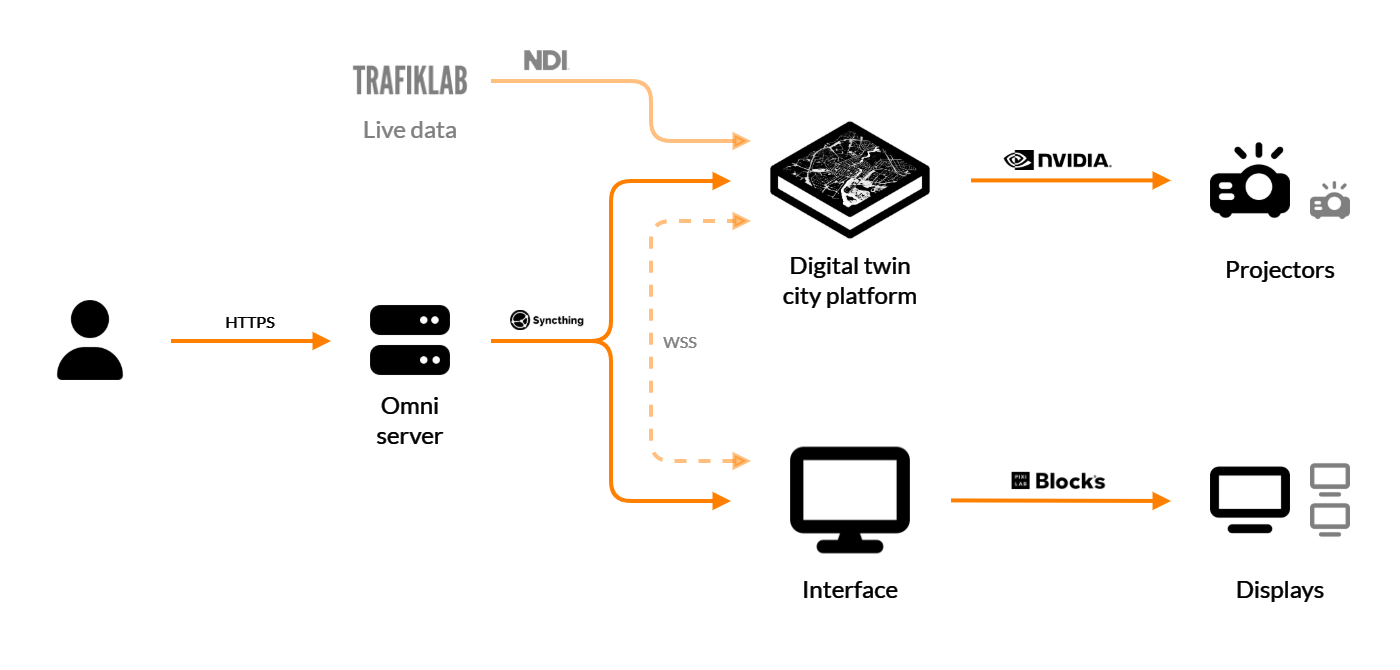
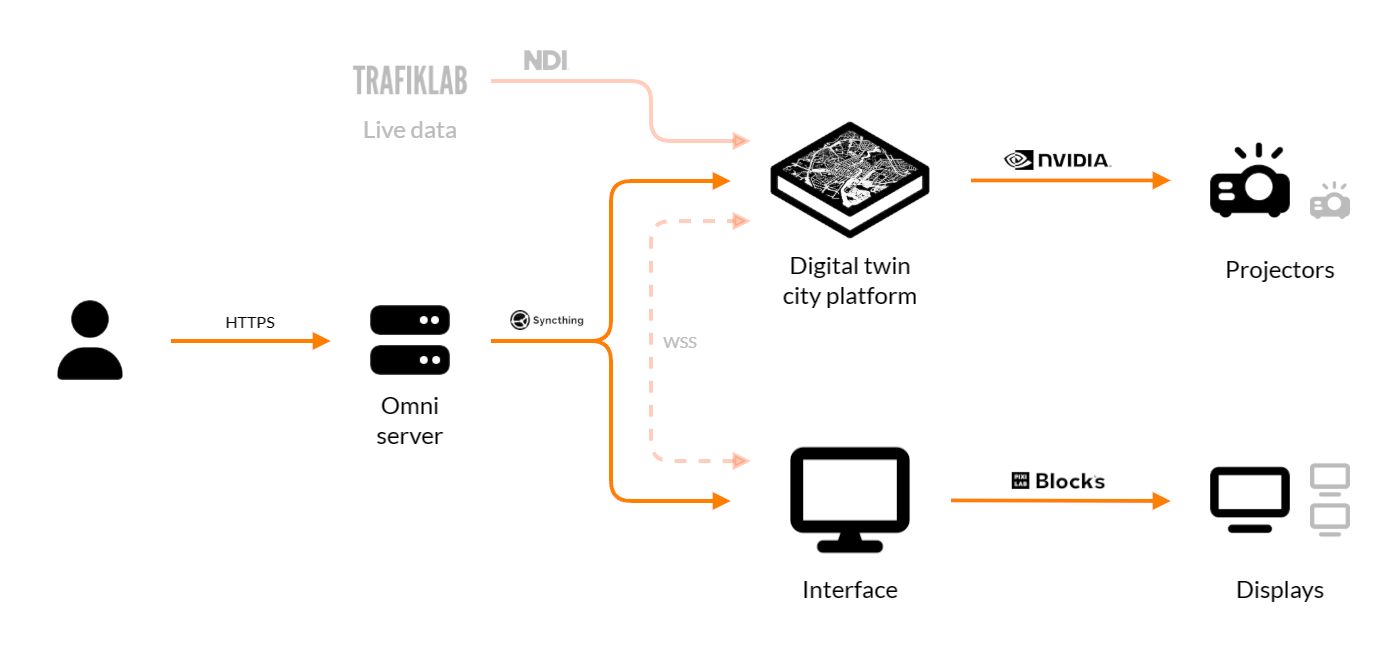
Add custom mdx component <Image>, which allows for relative image paths and improved responsive styling.

diff --git a/src/components/mdxComponents.tsx b/src/components/mdxComponents.tsx
@@ -1,0 +1,46 @@
+import { useRouter } from "next/router";
+import React from "react";
+
+interface ImageProps {
+	src: string;
+	alt?: string;
+	width?: string | number;
+	float?: "left" | "right";
+	className?: string;
+}
+
+const Image = ({ src, alt, width, float }: ImageProps) => {
+	const router = useRouter();
+
+	const currentPath = router.asPath.split(/[?#]/)[0];
+
+	const isRelative = !src.startsWith("http") && !src.startsWith("/");
+	const cleanFilename = src.startsWith("./") ? src.replace("./", "") : src;
+
+	const finalSrc = isRelative
+		? `/content${currentPath}/${cleanFilename}`.replace(/\/+$/, "")
+		: src;
+
+	const floatClasses = {
+		left: "clear-left float-left mr-4 mb-4",
+		right: "clear-right float-right ml-4 mb-4",
+	};
+
+	// Uses width as long as device is wider than 640px
+	const responsiveWidth = width ? `sm:w-[${width}]` : "sm:w-auto";
+
+	return (
+		<img
+			src={finalSrc}
+			alt={alt || ""}
+			title={alt || ""}
+			className={`rounded ${responsiveWidth} ${float ? floatClasses[float] : "block mx-auto mb-4"}`}
+		/>
+	);
+};
+
+/* Export components */
+
+export const mdxComponents = {
+	Image: (props: any) => <Image {...props} />,
+};

diff --git a/src/pages/exjobbs/[slug].tsx b/src/pages/exjobbs/[slug].tsx
@@ -3,6 +3,7 @@ import { MDXRemote } from "next-mdx-remote";
 import { ExjobbData, getAllExjobbs, getExjobb } from '@/helpers/ExjobbHelper';
 import { PersonnelData, getAllPersonnels } from "@/helpers/PersonnelHelper";
 import MiniPersonnelList from "@/components/MiniPersonnelList";
+import { mdxComponents } from "@/components/mdxComponents";
 import { FontAwesomeIcon } from "@fortawesome/react-fontawesome";
 import * as solidIcons from "@fortawesome/free-solid-svg-icons";
 
@@ -55,7 +56,7 @@ export default function Exjobb({ exjobb, personnel }: { exjobb: ExjobbData, pers
 
         {/* Markdown content */}
         <div className="exjobb-single-markdown mdx-content">
-          <MDXRemote {...content} />
+          <MDXRemote {...content} components={mdxComponents} />
         </div>
       </main>
     </>

diff --git a/src/pages/guides/[...slug].tsx b/src/pages/guides/[...slug].tsx
@@ -7,6 +7,7 @@ import { FundingData, getAllFundings } from "@/helpers/FundingHelper";
 import { PersonnelData, getAllPersonnels } from "@/helpers/PersonnelHelper";
 import MiniPersonnelList from "@/components/MiniPersonnelList";
 import MiniFundingList from "@/components/MiniFundingList";
+import { mdxComponents } from "@/components/mdxComponents";
 import {
   TableOfContents,
   getTableOfContent,
@@ -101,7 +102,7 @@ export default function Guide({
 
         {/* Markdown content */}
         <div className="guide-single-markdown mdx-content">
-          <MDXRemote {...content} />
+          <MDXRemote {...content} components={mdxComponents} />
         </div>
       </main>
     </>

diff --git a/src/pages/personnel/[slug].tsx b/src/pages/personnel/[slug].tsx
@@ -4,6 +4,7 @@ import { MDXRemote } from "next-mdx-remote";
 import { PersonnelData, getAllPersonnels, getPersonnel } from "@/helpers/PersonnelHelper";
 import { PublicationData, getAllPublications } from "@/helpers/PublicationHelper";
 import SocialList from "@/components/SocialList";
+import { mdxComponents } from "@/components/mdxComponents";
 import { ProjectData, getAllProjects } from "@/helpers/ProjectHelper";
 import { ProjectList } from "../projects";
 import { PublicationList } from "../publications";
@@ -105,7 +106,7 @@ export default function Personnel({ personnel, projects, publications }: { perso
 
         {/* Markdown content */}
         <div className="personnel-single-markdown mdx-content">
-          <MDXRemote {...content} />
+          <MDXRemote {...content} components={mdxComponents} />
 
           {/* Projects */}
           {myProjects.length > 0 &&

diff --git a/src/pages/projects/[slug].tsx b/src/pages/projects/[slug].tsx
@@ -8,6 +8,7 @@ import { PublicationData, getAllPublications } from "@/helpers/PublicationHelper
 import { PublicationList } from "../publications";
 import MiniPersonnelList from "@/components/MiniPersonnelList";
 import MiniFundingList from "@/components/MiniFundingList";
+import { mdxComponents } from "@/components/mdxComponents";
 import { FontAwesomeIcon } from "@fortawesome/react-fontawesome";
 import * as solidIcons from "@fortawesome/free-solid-svg-icons";
 
@@ -66,7 +67,7 @@ export default function Project({ project, fundings, personnel, publications }: 
 
         {/* Markdown content */}
         <div className="project-single-markdown mdx-content">
-          <MDXRemote {...content} />
+          <MDXRemote {...content} components={mdxComponents} />
 
           {/* Publications */}
           {myPublications.length > 0 &&

diff --git a/public/content/personnel/README.md b/public/content/personnel/README.md
@@ -57,7 +57,7 @@ social: {
 skills: [ "Designing", "Programming", "Adminstrating" ]
 ---
 
-<img alt="Random picture" src="https://picsum.photos/id/543/2000/300" />
+<img alt="Random picture at full width" src="https://picsum.photos/id/543/2000/300" />
 
 # Myself
 Lorem ipsum dolor sit amet, consectetur adipiscing elit. Duis nulla ante, faucibus ac mollis a, maximus sed ipsum. Aenean sodales nunc a tortor dapibus, sit amet congue orci condimentum. Nullam tempor velit nibh, dignissim interdum sapien volutpat non. Cras aliquam, ipsum varius euismod lobortis, orci sem fermentum neque, et ornare magna nunc sed elit. Duis felis urna, sodales feugiat justo nec, ornare molestie enim. Vestibulum eleifend, mi a vehicula malesuada, ligula erat dictum nibh, ut sollicitudin ex mi sed leo. Sed dictum cursus lectus, ut sollicitudin mi auctor ut.
@@ -67,11 +67,11 @@ Suspendisse sit amet dui ut ligula ultrices mollis sit amet a dolor. Aenean aliq
 # Background
 Lorem ipsum - tai fiktyvus tekstas naudojamas spaudos ir grafinio dizaino pasaulyje jau nuo XVI a. pradžios. Lorem Ipsum tapo standartiniu fiktyviu tekstu, kai nežinomas spaustuvininkas atsitiktine tvarka išdėliojo raides atspaudų prese ir tokiu būdu sukūrė raidžių egzempliorių. Šis tekstas išliko beveik nepasikeitęs ne tik penkis amžius, bet ir įžengė i kopiuterinio grafinio dizaino laikus. Jis išpopuliarėjo XX a. šeštajame dešimtmetyje, kai buvo išleisti Letraset lapai su Lorem Ipsum ištraukomis, o vėliau -leidybinė sistema AldusPageMaker, kurioje buvo ir Lorem Ipsum versija.
 
-<img style={{float: "left", marginRight: "1rem"}} width="40%" alt="test" src="https://picsum.photos/id/543/2000/300" />
+<img style={{float: "left", marginRight: "1rem"}} width="40%" alt="Image with style" src="https://picsum.photos/id/543/2000/300" />
 
 Velit enim sit nulla culpa adipisicing laborum. Nisi sit in consectetur nisi duis velit enim voluptate officia ullamco aute tempor id dolore. Veniam fugiat nulla commodo laborum aute anim commodo dolor pariatur consequat est do. Lorem laboris ut adipisicing reprehenderit. Elit non id ex labore occaecat incididunt adipisicing.
 
-<img style={{float: "right", marginLeft: "1rem"}} width="50%" alt="Absolute image" src="https://picsum.photos/id/543/2000/300" />
+<img className="sm:w-[50%] float-right ml-4 mb-4" alt="Image with tailwind" src="https://picsum.photos/id/543/2000/300" />
 
 ## Wow
 Pariatur ex excepteur nostrud aliqua nulla aute eu labore culpa ea laborum pariatur. Voluptate consequat dolore duis sit consequat magna laborum consequat fugiat nisi anim ex. Id eiusmod ipsum tempor non amet incididunt veniam culpa ullamco ipsum. Ipsum quis ex elit eu non Lorem laboris occaecat. Anim amet cillum nulla nulla. In reprehenderit veniam deserunt ad amet mollit nisi consectetur consectetur consectetur veniam. Pariatur est et Lorem laborum.